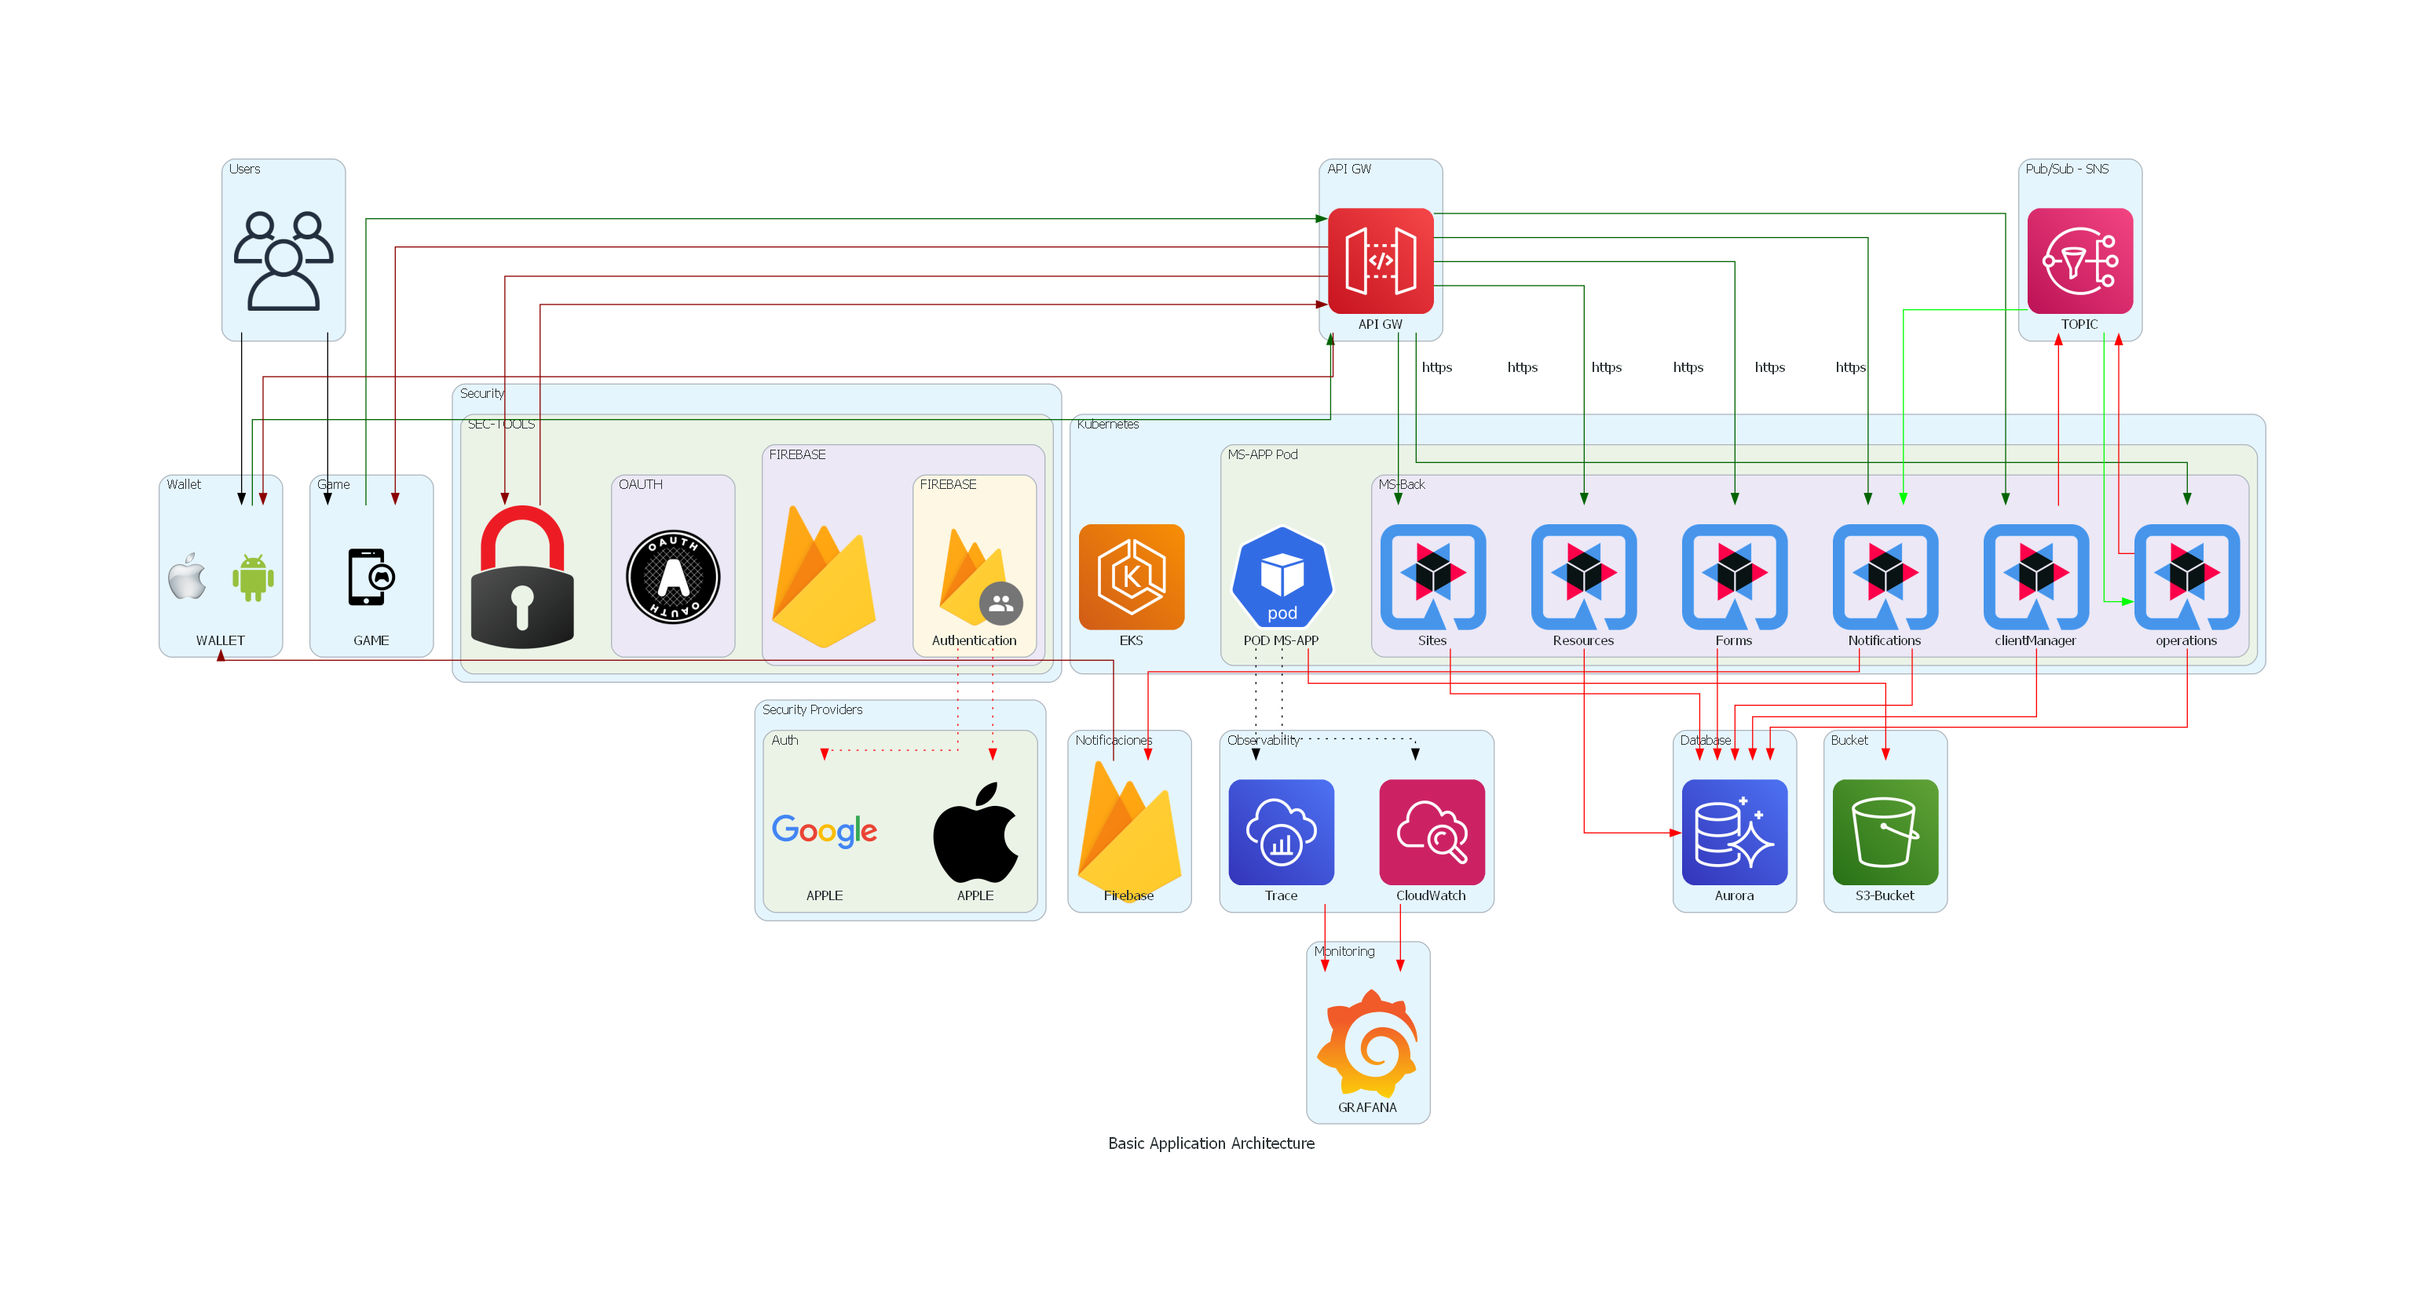
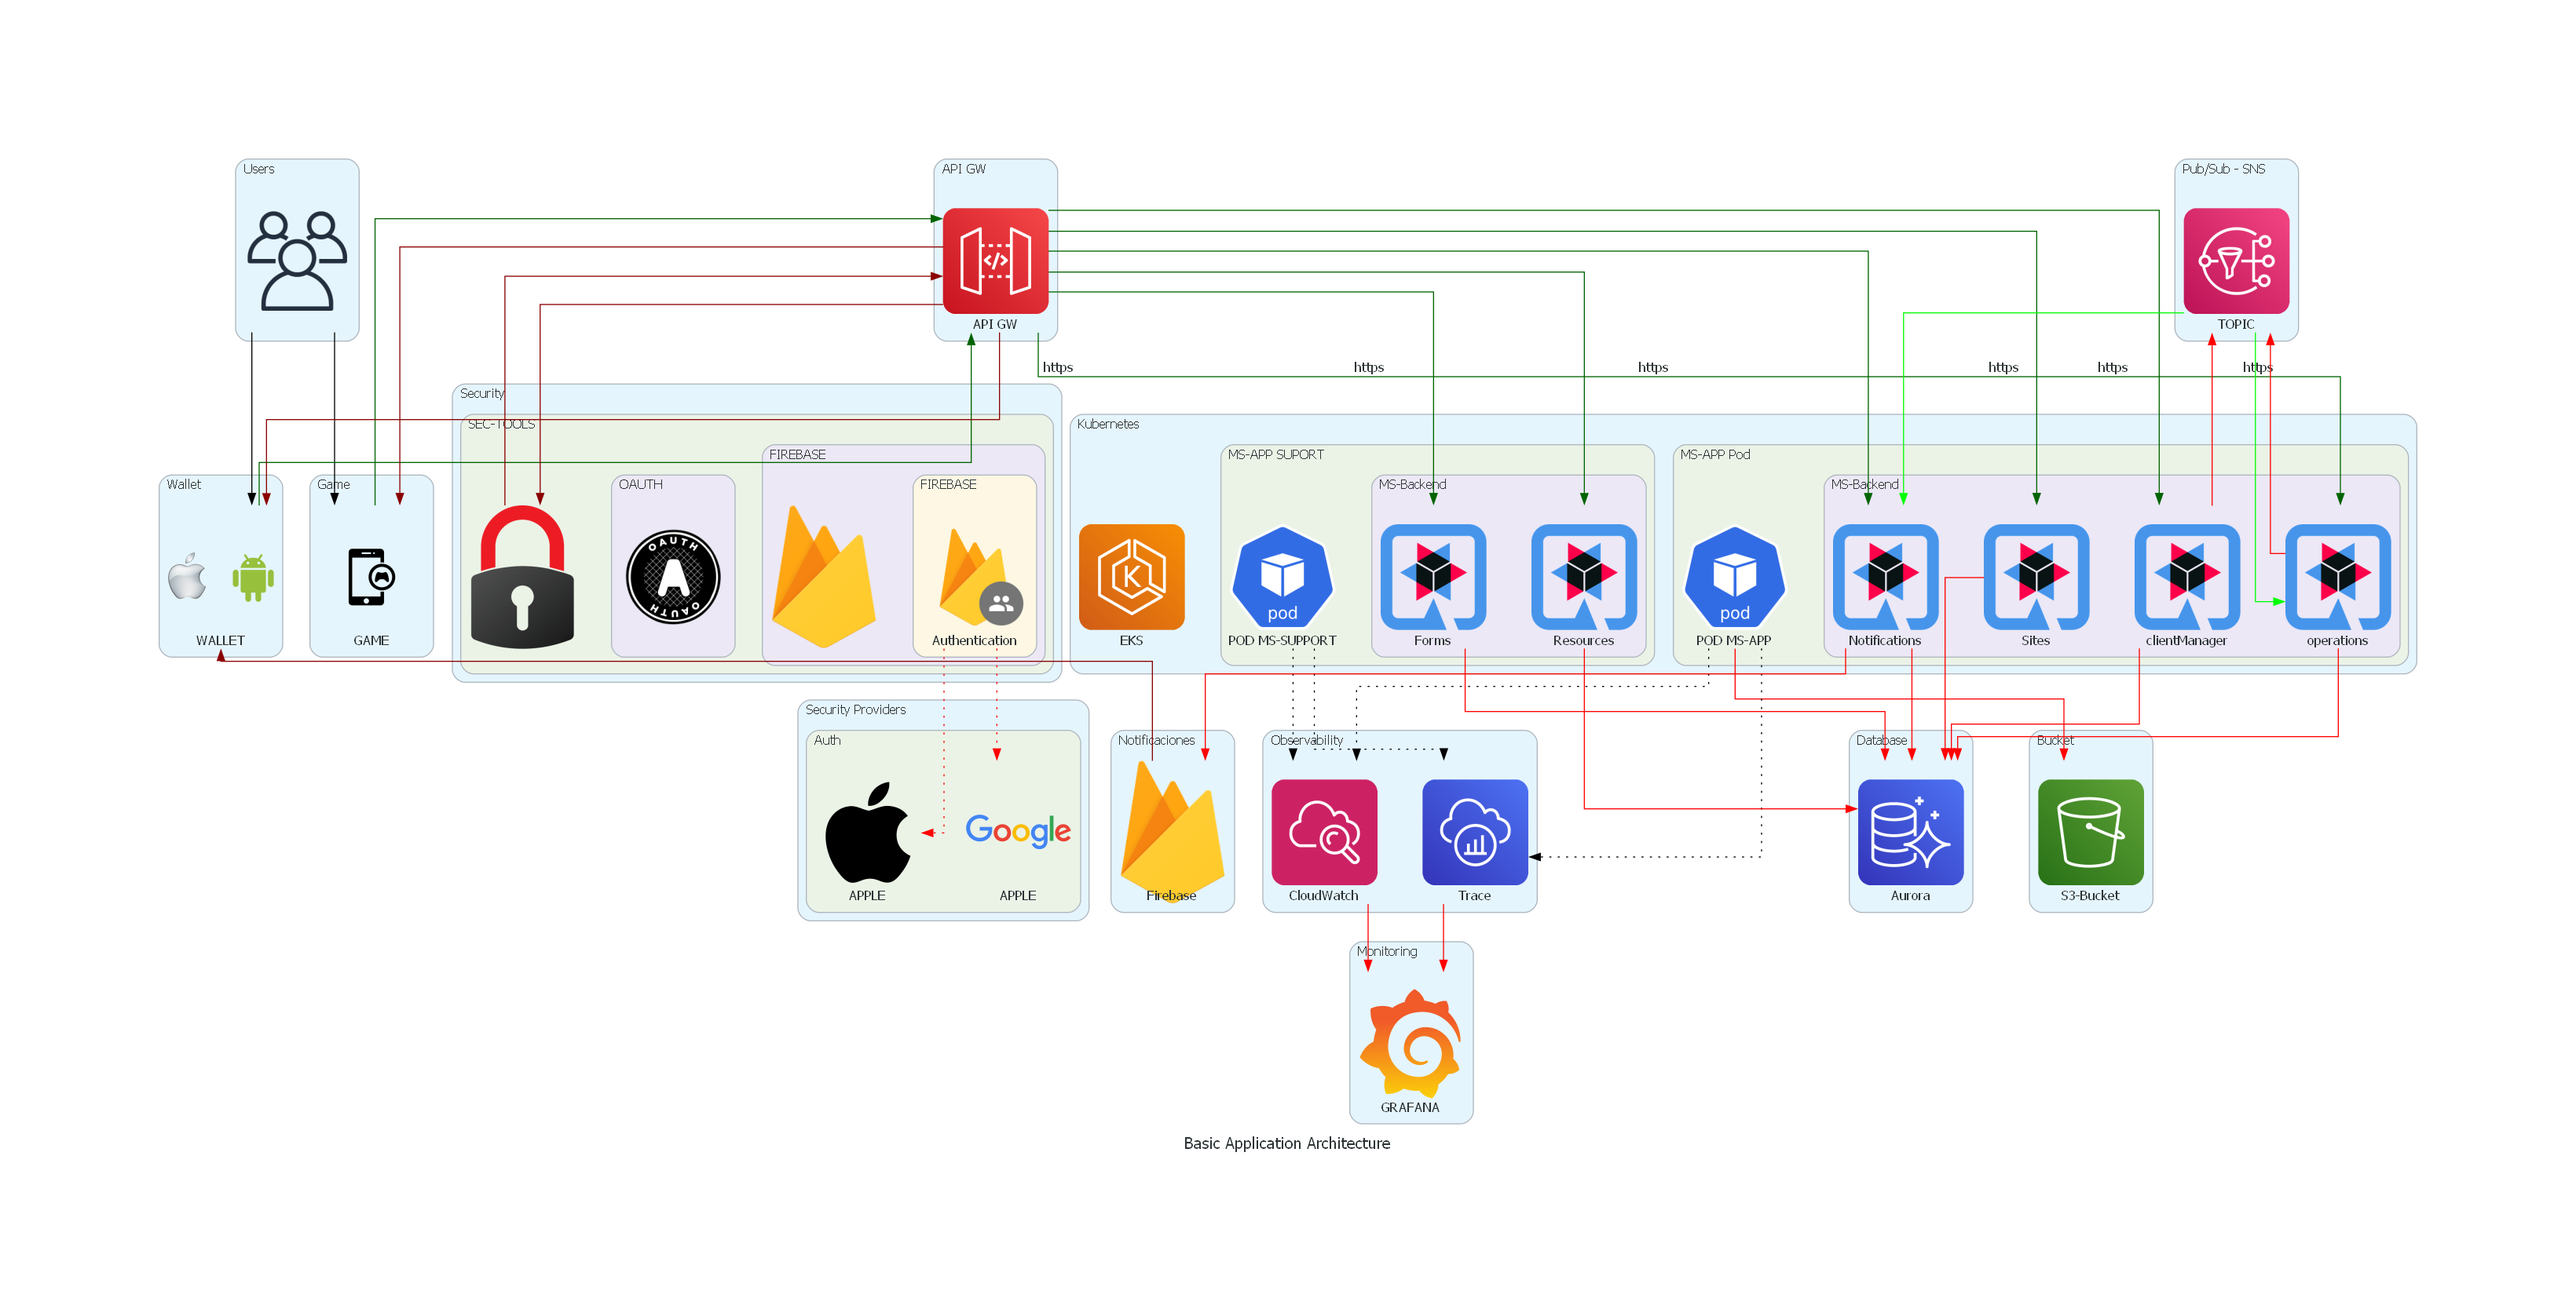
arch_reduced

Changed region(s): [[0.0622, 0.0935, 0.9637, 0.8729], [0.715, 0.2806, 0.7461, 0.3118], [0.4663, 0.8729, 0.4974, 0.9041]]

diff --git a/arch_reduced.py b/arch_reduced.py
@@ -94,15 +94,22 @@ with Diagram("Basic Application Architecture", show=True, filename="architecture
                
         with Cluster('MS-APP Pod'):
             AppPod=Pod('POD MS-APP')  
-            with Cluster('MS-Back'):
+            with Cluster('MS-Backend'):
                 APP01=Custom('clientManager', quarkusimg)
                 APP02=Custom('operations', quarkusimg)
                 APP03=Custom('Notifications', quarkusimg)
                 APP04=Custom('Sites', quarkusimg)
+                
+        with Cluster('MS-APP SUPORT'):
+             
+            AppPod2=Pod('POD MS-SUPPORT')  
+            with Cluster('MS-Backend'):
+
                 APP05=Custom('Resources', quarkusimg)
                 APP06=Custom('Forms', quarkusimg)
        
         AppPod >>Edge(color='black',style="dotted")>> OBS
+        AppPod2 >>Edge(color='black',style="dotted")>> OBS
        
 
         agw >> Edge(color='darkgreen', label='https') >> APP01
